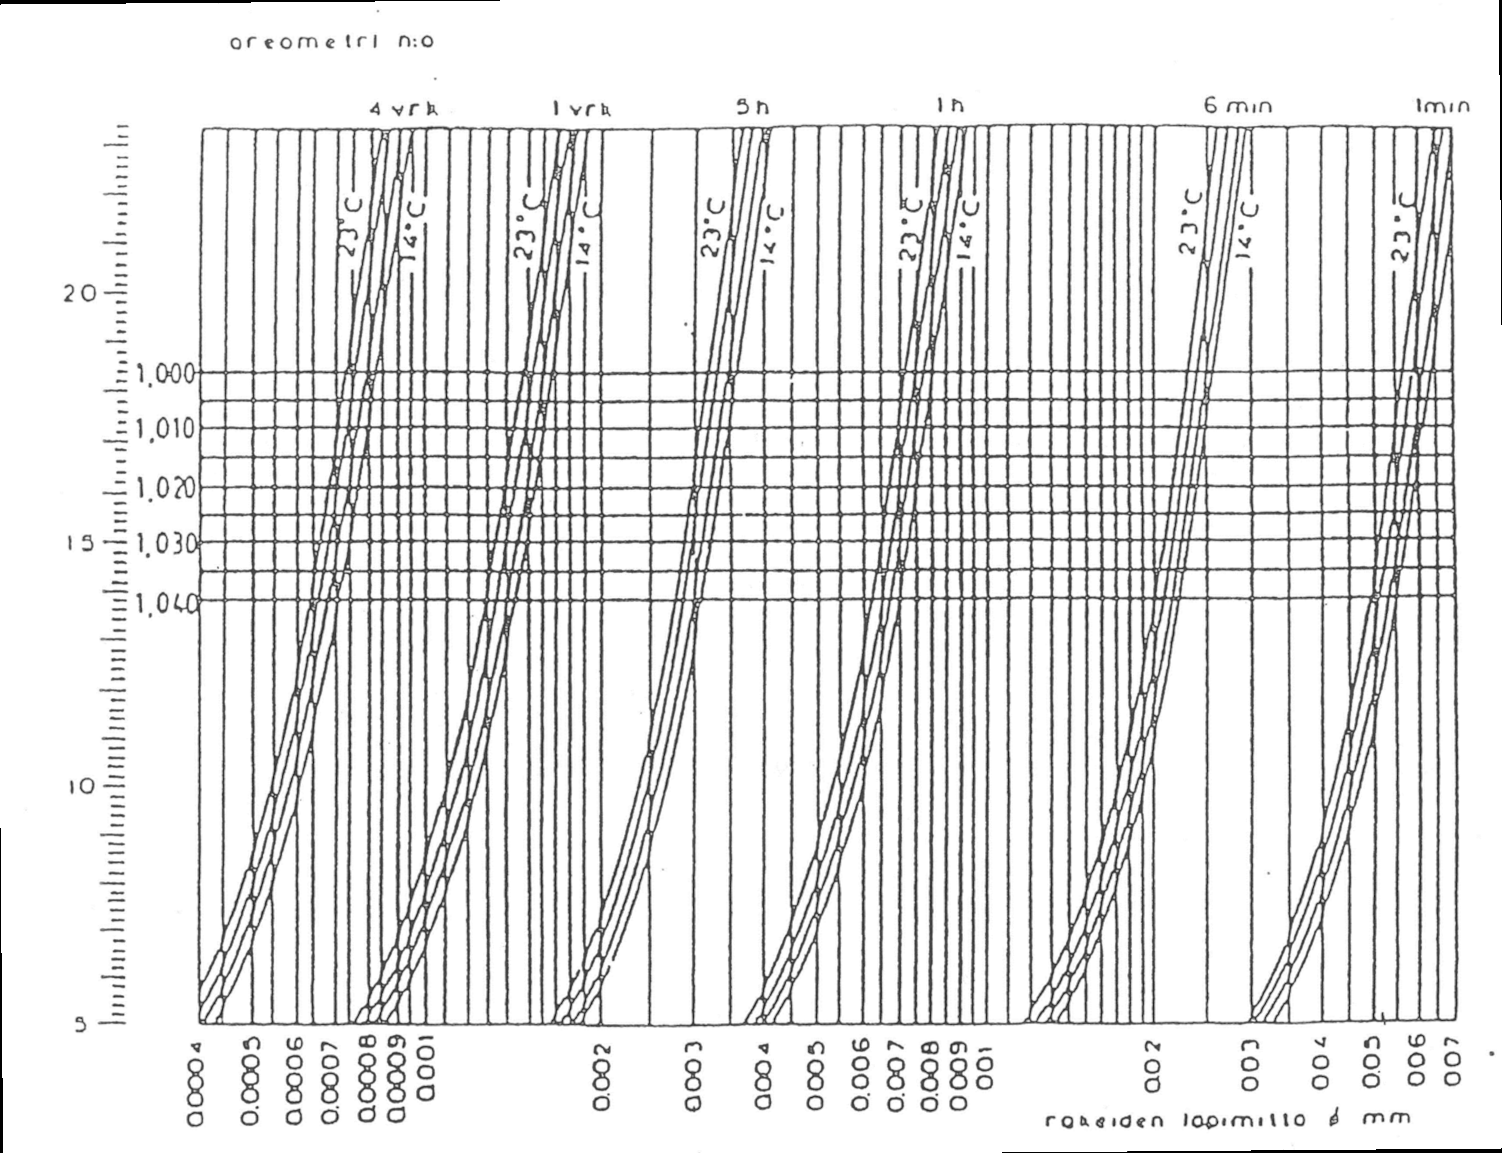
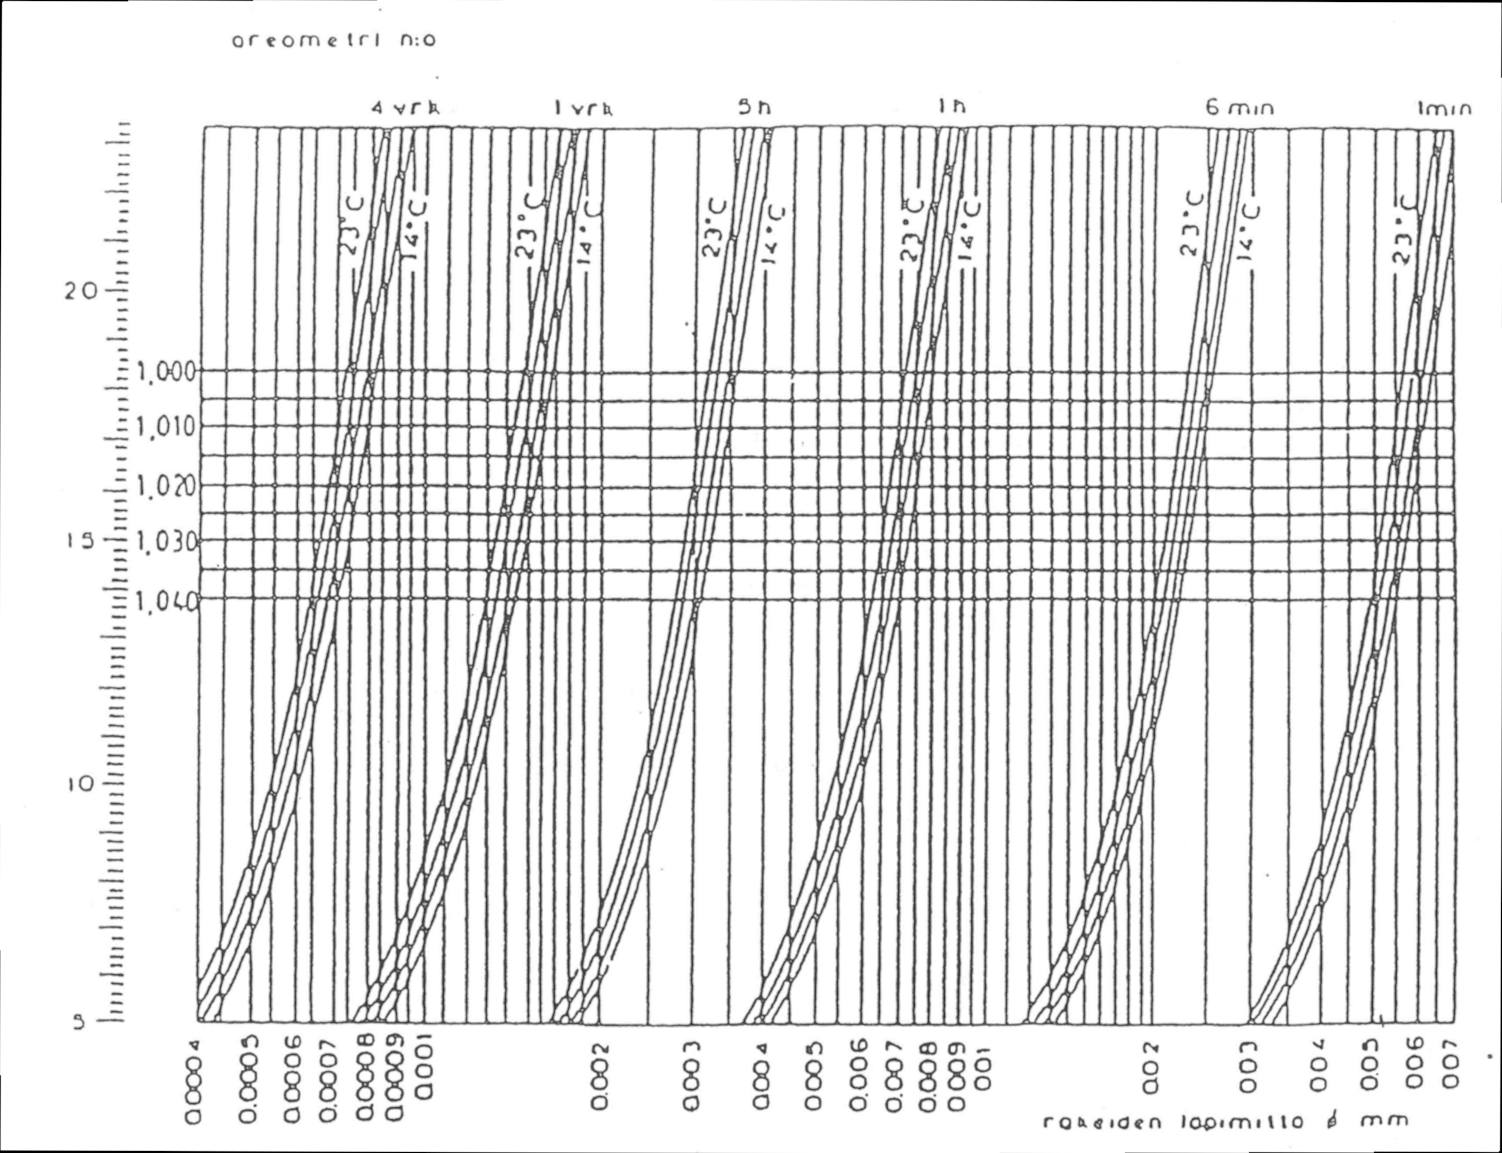
Do calibration in blocks.

diff --git a/turbo_vibe_code.py b/turbo_vibe_code.py
@@ -1,0 +1,211 @@
+import tkinter as tk
+from tkinter import filedialog, simpledialog, messagebox
+from PIL import Image, ImageTk
+import numpy as np
+
+class DigitizerApp:
+    def __init__(self, root):
+        self.root = root
+        self.root.title("Python Plot Digitizer")
+
+        # --- GUI Setup ---
+        # Top frame for controls and coordinate display
+        self.controls_frame = tk.Frame(self.root, padx=5, pady=5)
+        self.controls_frame.pack(side=tk.TOP, fill=tk.X)
+
+        self.load_btn = tk.Button(self.controls_frame, text="1. Load Image", command=self.load_image)
+        self.load_btn.pack(side=tk.LEFT, padx=5)
+
+        self.calibrate_btn = tk.Button(self.controls_frame, text="2. Calibrate Axes", command=self.start_calibration, state=tk.DISABLED)
+        self.calibrate_btn.pack(side=tk.LEFT, padx=5)
+
+        # Label to display coordinates at the top right
+        self.coord_label = tk.Label(self.controls_frame, text="Coordinates: N/A", font=("Courier", 12), bd=1, relief=tk.SUNKEN, width=35, anchor=tk.E)
+        self.coord_label.pack(side=tk.RIGHT, padx=10)
+
+        # Canvas to display the image and catch mouse events
+        self.canvas = tk.Canvas(self.root, cursor="cross", bg="grey")
+        self.canvas.pack(fill=tk.BOTH, expand=True)
+
+        # --- State Variables ---
+        self.image = None
+        self.photo = None
+        self.calibration_points = [] # Stores pixel (x,y) of clicked points
+        self.calibrating = False
+        self.calibration_step = 0
+        # Transformation parameters
+        self.mx, self.cx = 0, 0
+        self.my, self.cy = 0, 0
+        self.is_calibrated = False
+
+        # --- Event Bindings ---
+        # Track mouse movement to update coordinates
+        self.canvas.bind("<Motion>", self.display_coordinates)
+        # Handle clicks for calibration
+        self.canvas.bind("<Button-1>", self.handle_click)
+
+    def load_image(self):
+        """Opens a file dialog to load an image, resizes it to fit, and displays it."""
+        file_path = filedialog.askopenfilename(filetypes=[("Image files", "*.png *.jpg *.jpeg *.bmp *.gif")])
+        if file_path:
+            # 1. Open the original image
+            original_image = Image.open(file_path)
+            
+            # 2. Define maximum dimensions (e.g., fits comfortably on a standard laptop screen)
+            max_w = 1200 
+            max_h = 900 
+            
+            # 3. Calculate the resize ratio to maintain aspect ratio
+            width_ratio = max_w / original_image.width
+            height_ratio = max_h / original_image.height
+            
+            # We take the smaller ratio to ensure it fits both width and height.
+            # We also use min(..., 1.0) so we don't stretch small images up.
+            scale_factor = min(width_ratio, height_ratio, 1.0)
+            
+            new_width = int(original_image.width * scale_factor)
+            new_height = int(original_image.height * scale_factor)
+            
+            # 4. Resize using high-quality resampling (LANCZOS)
+            # This handles compatibility for both new and old Pillow versions
+            try:
+                resample_method = Image.Resampling.LANCZOS
+            except AttributeError:
+                resample_method = Image.ANTIALIAS # For older Pillow versions
+                
+            self.image = original_image.resize((new_width, new_height), resample_method)
+            self.photo = ImageTk.PhotoImage(self.image)
+            
+            # 5. Update Canvas
+            self.canvas.config(width=new_width, height=new_height)
+            # Clear previous images if any
+            self.canvas.delete("all") 
+            self.canvas.create_image(0, 0, image=self.photo, anchor=tk.NW)
+            
+            # Reset application state
+            self.calibrate_btn.config(state=tk.NORMAL)
+            self.is_calibrated = False
+            self.calibration_points = []
+
+    def start_calibration(self):
+        """Starts the 4-step calibration process."""
+        if not self.image:
+            return
+        self.calibrating = True
+        self.calibration_step = 1
+        self.calibration_points = []
+        self.is_calibrated = False
+        self.canvas.delete("calib_mark")
+        messagebox.showinfo("Calibration Step 1/4", "Click on a known point on the **left** side of the X-axis.")
+
+    def handle_click(self, event):
+        """Handles mouse clicks during the calibration process."""
+        if not self.calibrating:
+            return
+
+        # Get coordinates relative to the canvas, accounting for scrolling if added later
+        px = self.canvas.canvasx(event.x)
+        py = self.canvas.canvasy(event.y)
+        
+        self.calibration_points.append((px, py))
+        # Draw a red marker where clicked
+        self.canvas.create_oval(px-4, py-4, px+4, py+4, outline="red", width=2, tags="calib_mark")
+
+        # Guide user through the 4 steps
+        if self.calibration_step == 1:
+            self.calibration_step = 2
+            messagebox.showinfo("Calibration Step 2/4", "Click on a known point on the **right** side of the X-axis.")
+        elif self.calibration_step == 2:
+            self.calibration_step = 3
+            messagebox.showinfo("Calibration Step 3/4", "Click on a known point near the **bottom** of the Y-axis.")
+        elif self.calibration_step == 3:
+            self.calibration_step = 4
+            messagebox.showinfo("Calibration Step 4/4", "Click on a known point near the **top** of the Y-axis.")
+        elif self.calibration_step == 4:
+            self.finish_calibration()
+
+    def finish_calibration(self):
+        """Prompts for data values and calculates transformation parameters."""
+        self.calibrating = False
+        
+        try:
+            # Prompt user for the data values corresponding to the clicked points
+            x1_d = simpledialog.askfloat("Input", f"Enter value for X-point 1 (pixel x={self.calibration_points[0][0]:.0f}):")
+            x2_d = simpledialog.askfloat("Input", f"Enter value for X-point 2 (pixel x={self.calibration_points[1][0]:.0f}):")
+            y1_d = simpledialog.askfloat("Input", f"Enter value for Y-point 1 (pixel y={self.calibration_points[2][1]:.0f}):")
+            y2_d = simpledialog.askfloat("Input", f"Enter value for Y-point 2 (pixel y={self.calibration_points[3][1]:.0f}):")
+
+            if None in [x1_d, x2_d, y1_d, y2_d]:
+                 messagebox.showwarning("Cancelled", "Calibration cancelled.")
+                 self.canvas.delete("calib_mark")
+                 return
+            
+            # Get pixel coordinates from stored points
+            p1x = self.calibration_points[0][0]
+            p2x = self.calibration_points[1][0]
+            p1y = self.calibration_points[2][1]
+            p2y = self.calibration_points[3][1]
+
+            print(f"p1x: {p1x}")
+            print(f"p2x: {p2x}")
+            print(f"p1y: {p1y}")
+            print(f"p2y: {p2y}")
+
+            # Basic validation
+            if p1x == p2x: raise ValueError("X-points must have different horizontal positions.")
+            if p1y == p2y: raise ValueError("Y-points must have different vertical positions.")
+            if x1_d <= 0 or x2_d <= 0: raise ValueError("For logarithmic X-axis, values must be positive.")
+
+            # --- Calculate Logarithmic X-axis Transformation ---
+            # log10(x_data) = mx * x_pixel + cx
+            log_x1 = np.log10(x1_d)
+            log_x2 = np.log10(x2_d)
+            self.mx = (log_x2 - log_x1) / (p2x - p1x)
+            self.cx = log_x1 - self.mx * p1x
+
+            # --- Calculate Linear Y-axis Transformation ---
+            # y_data = my * y_pixel + cy
+            self.my = (y2_d - y1_d) / (p2y - p1y)
+            self.cy = y1_d - self.my * p1y
+
+            self.is_calibrated = True
+            self.canvas.delete("calib_mark") # Clean up markers
+            messagebox.showinfo("Success", "Calibration complete! Move your mouse over the image to read coordinates.")
+
+        except (ValueError, TypeError) as e:
+            messagebox.showerror("Calibration Error", str(e))
+            self.canvas.delete("calib_mark")
+
+    def display_coordinates(self, event):
+        """Updates the coordinate label as the mouse moves."""
+        # Get canvas coordinates
+        px = self.canvas.canvasx(event.x)
+        py = self.canvas.canvasy(event.y)
+
+        if not self.is_calibrated:
+            # Show raw pixel coordinates if not calibrated
+            self.coord_label.config(text=f"Pixels: ({px:.0f}, {py:.0f})")
+            return
+
+        # Check if mouse is inside the image bounds
+        if 0 <= px < self.image.width and 0 <= py < self.image.height:
+            # Apply Logarithmic Transformation for X
+            log_val = self.mx * px + self.cx
+            x_data = np.power(10, log_val)
+            
+            # Apply Linear Transformation for Y
+            y_data = self.my * py + self.cy
+
+            # Update label with formatted coordinates
+            # .4e is scientific notation with 4 decimals (good for log scale)
+            # .4f is fixed-point notation with 4 decimals
+            self.coord_label.config(text=f"X: {x_data:.6f}, Y: {y_data:.4f}")
+        else:
+            self.coord_label.config(text="Out of bounds")
+
+if __name__ == "__main__":
+    root = tk.Tk()
+    # Prevent window from being too small
+    root.minsize(600, 400) 
+    app = DigitizerApp(root)
+    root.mainloop()

diff --git a/benis.py b/benis.py
@@ -10,24 +10,158 @@ import plotly.graph_objects as go
 
 data = {
     # Simulating the '6 min' curves
-    'Diameter_mm': [0.0003974002352170437,
-0.0004396347386455457,
-0.0004999205146280545,
-0.0005403467363140061,
-0.0005935379189444674,
-0.0006339916101186609,
-0.0006959181843404155,
-0.0007387490282905029,
-0.0007975747800159157], # X-axis
-    'Reading_23C': [1.1087818734932073,
-1.0990400848840567,
-1.08271682705545,
-1.069557112061729,
-1.049814316125956,
-1.0334821938230732,
-1.0088612508310444,
-0.9888697123746717,
-0.9676610547381286], # Y-axis curve 1
+    'Diameter_mm': [0.00040567961020154895,
+0.00044544935907016986,
+0.0005055315422434485,
+0.0005490162037585072,
+0.0006028375839788049,
+0.0007553609435210482,
+0.00079807883787151,
+0.000811359220403098,
+0.0008432125554299235,
+0.0004079174717143943,
+0.00044790660353480967,
+0.0005027581636549769,
+0.0005460042655172835,
+0.0005995303781805015,
+0.0006334355933953967,
+0.0006439762399959875,
+0.0006583037845331216,
+0.0006692582487611267,
+0.0006766623093107233,
+0.0006955328096229155,
+0.0007032275478591814,
+0.0007149295632480716,
+0.0007308357171124048,
+0.0006511006035466168,
+0.0006655866549194551,
+0.000680395000087189,
+0.0006955328096229155,
+0.0007032275478591814,
+0.0007188733487225095,
+0.0007348672461378002,
+0.0007470957600082748,
+0.0007553609435210482,
+0.0007893462337975947,
+0.0008158349434287896,
+0.0008432125554299235,
+0.0008667277454612603,
+0.0006334355933953967,
+0.0004101676780038194,
+0.00044544935907016986,
+0.0005000000000000004,
+0.0005430088509631698,
+0.0005995303781805015,
+0.00063692983145834,
+0.0006766623093107233,
+0.0006955328096229155,
+0.0007032275478591814,
+0.0007228388894084647,
+0.00073892101439686,
+0.0007470957600082748,
+0.0007637175654573225,
+0.0007764261613178716,
+0.00079807883787151,
+0.0008248605943353037,
+0.0008525410871710556,
+0.0008763164277364344,
+0.000900754805928394,
+0.0004333638727306301,
+0.00044790660353480967,
+0.0005000000000000004,
+0.0005400298694461537,
+0.0005962413159261364,
+0.0006404433448821373,
+0.0006955328096229155,
+0.0007032275478591814,
+0.0007228388894084647,
+0.00073892101439686,
+0.0007512169847523584,
+0.0007637175654573225,
+0.0007807091821557112,
+0.00079807883787151,
+0.0008024813019603561,
+0.0008203353560076389,
+0.0008525410871710556,
+0.0008908987181403399,
+0.0009107199324483577,
+0.0009516951530106209], # X-axis
+    'Reading_23C': [1.1078048780487806,
+1.0990243902439025,
+1.0831707317073171,
+1.07,
+1.05,
+0.9878048780487805,
+0.9748780487804878,
+0.9665853658536585,
+0.9570731707317073,
+1.1119512195121952,
+1.1041463414634147,
+1.0897560975609757,
+1.0770731707317074,
+1.0614634146341464,
+1.04,
+1.0348780487804878,
+1.0297560975609756,
+1.0248780487804878,
+1.0202439024390244,
+1.0148780487804878,
+1.0097560975609756,
+1.0046341463414634,
+0.9997560975609756,
+1.04,
+1.0348780487804878,
+1.0297560975609756,
+1.0251219512195122,
+1.02,
+1.0148780487804878,
+1.0095121951219512,
+1.0046341463414634,
+0.9997560975609756,
+0.9875609756097561,
+0.975609756097561,
+0.9680487804878048,
+0.9570731707317073,
+1.0490243902439025,
+1.1146341463414635,
+1.1085365853658538,
+1.095609756097561,
+1.0841463414634147,
+1.0678048780487805,
+1.0560975609756098,
+1.04,
+1.0348780487804878,
+1.0297560975609756,
+1.0251219512195122,
+1.0202439024390244,
+1.0148780487804878,
+1.0095121951219512,
+1.0046341463414634,
+1,
+0.9878048780487805,
+0.9763414634146341,
+0.9680487804878048,
+0.9570731707317073,
+1.114878048780488,
+1.111219512195122,
+1.1009756097560977,
+1.0914634146341464,
+1.0770731707317074,
+1.0634146341463415,
+1.0458536585365854,
+1.04,
+1.0348780487804878,
+1.0297560975609756,
+1.0248780487804878,
+1.0202439024390244,
+1.0148780487804878,
+1.0097560975609756,
+1.0046341463414634,
+0.9997560975609756,
+0.9880487804878049,
+0.9768292682926829,
+0.9682926829268292,
+0.9570731707317073], # Y-axis curve 1
 
 
 }
